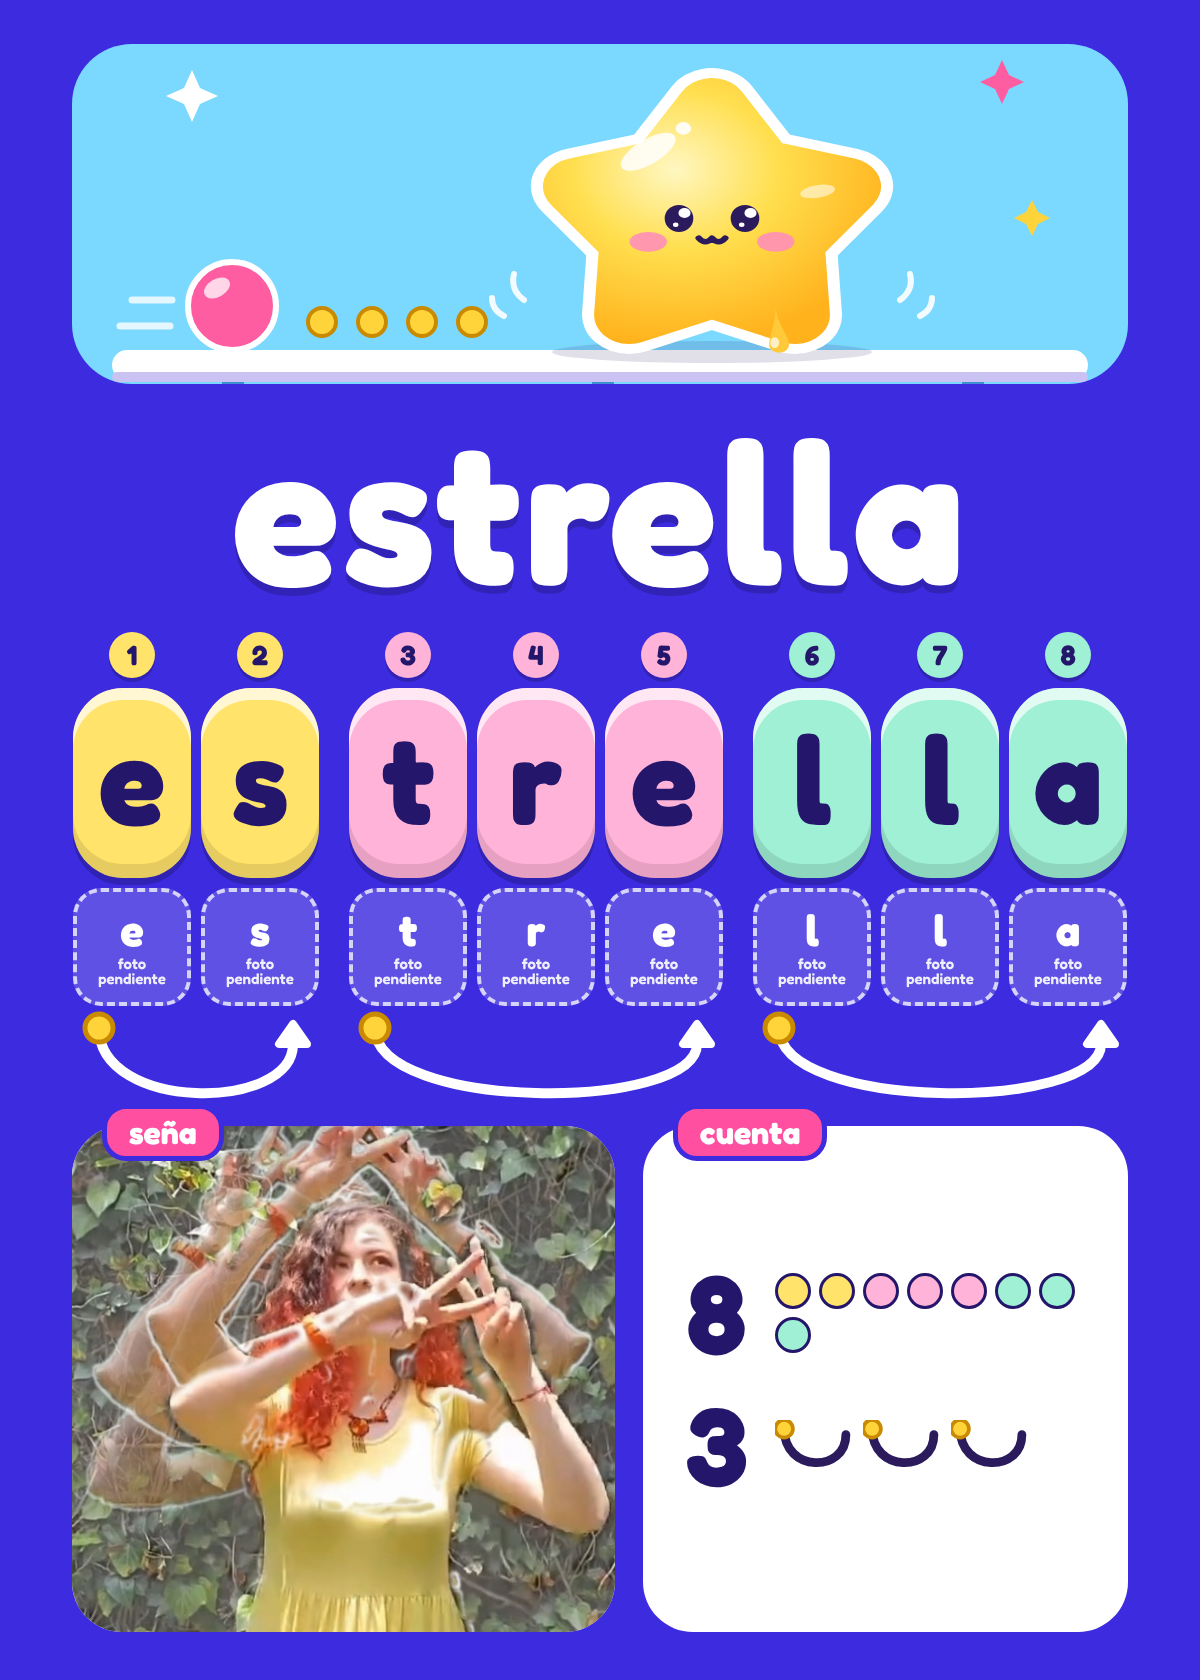
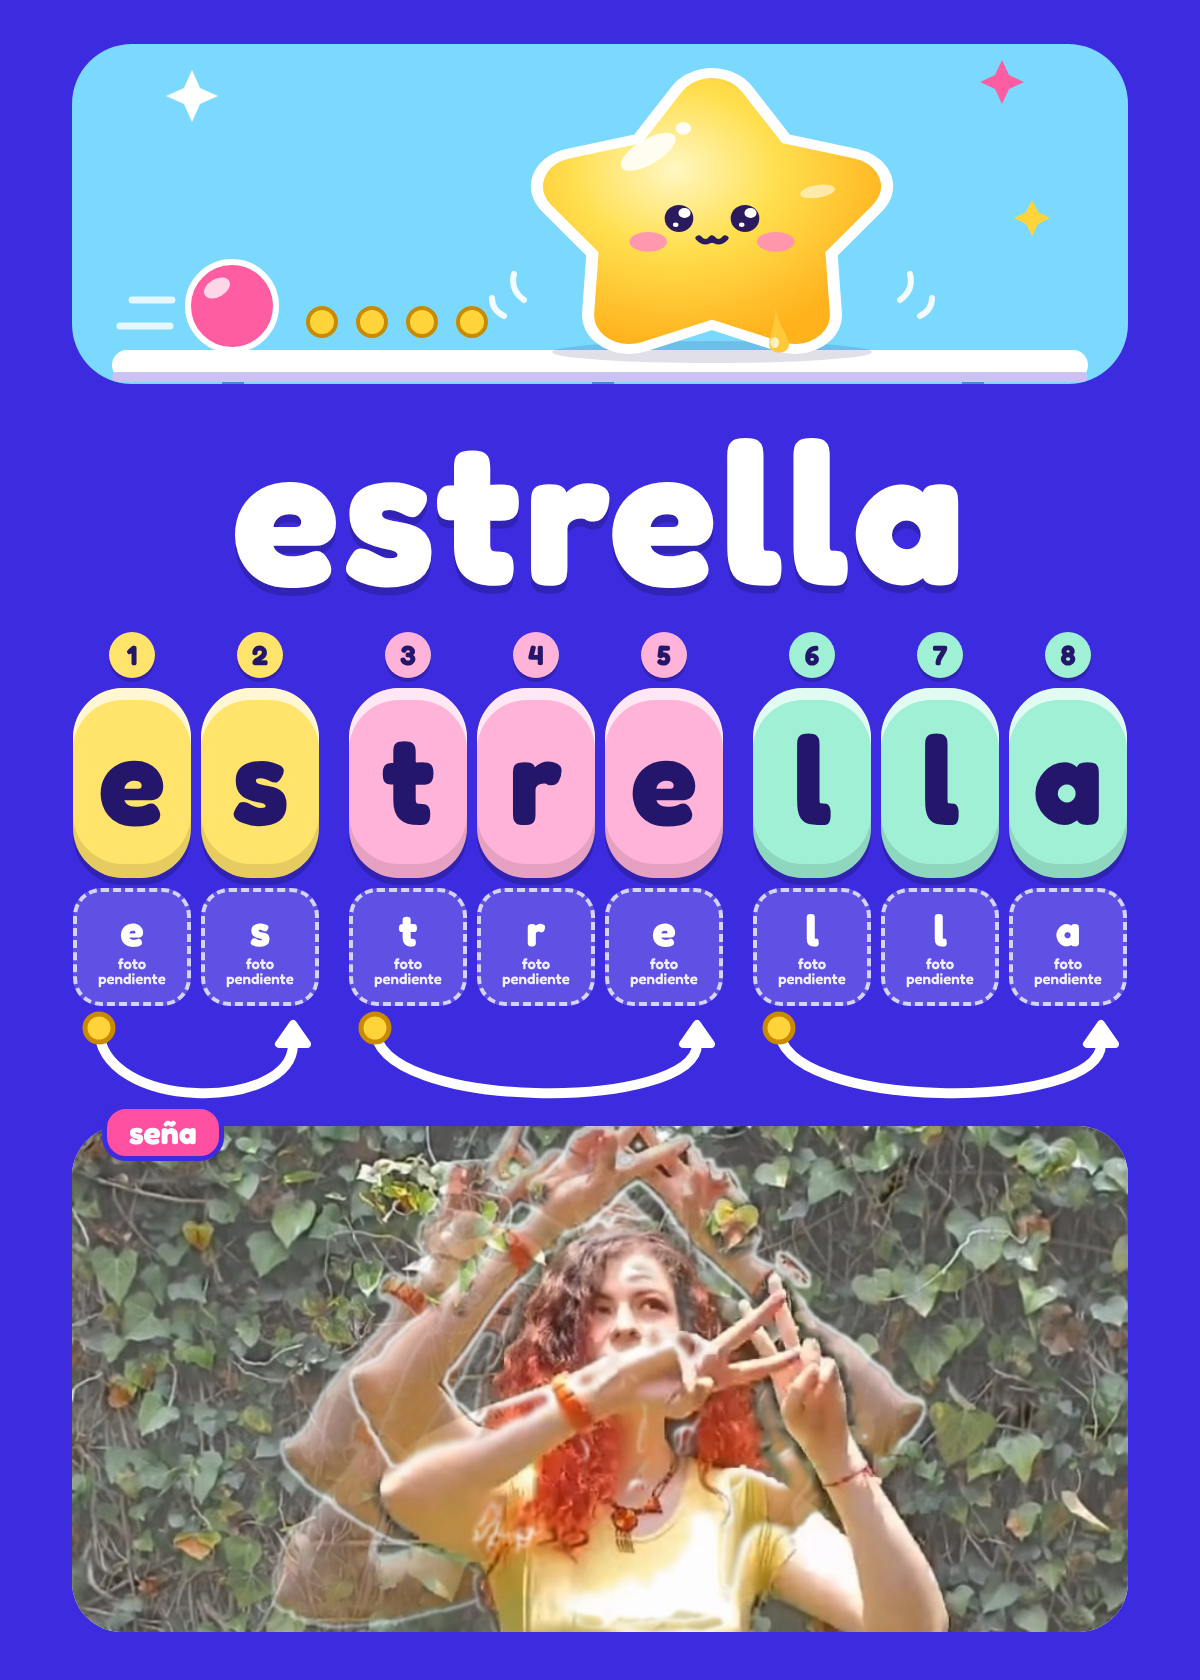
Frente sin panel de conteo; seña a todo lo ancho
Claude-Session: https://claude.ai/code/session_015Bpbc8EAm3Wz5jihEE32WP

Changed region(s): [[0.0617, 0.65, 0.9558, 0.9905]]

diff --git a/generar.js b/generar.js
@@ -107,12 +107,11 @@ function frente(t, c) {
   .arco { display:block; overflow:visible; }
   .abajo { display:flex; gap:28px; margin-top:22px; width:1056px; flex:1; }
   .panel { position:relative; background:#fff; border-radius:50px; }
-  .sena { flex:1.3; display:flex; align-items:flex-end; justify-content:center; }
+  .sena { flex:1; display:flex; align-items:flex-end; justify-content:center; }
   .foto { position:absolute; inset:0; border-radius:50px; overflow:hidden; }
-  .foto img { width:100%; height:100%; object-fit:cover; }
+  .foto img { width:100%; height:100%; object-fit:cover; object-position:center top; }
   .dibujo { max-width:94%; max-height:94%; }
   .pendiente { margin:auto; color:#bbb; font-size:44px; text-align:center; font-weight:600; }
-  .cuenta { flex:1; display:flex; flex-direction:column; justify-content:center; gap:22px; padding:0 34px; }
   .fila { display:flex; align-items:center; gap:18px; font-weight:700; font-size:40px; }
   .fila b { font-size:110px; line-height:1; min-width:80px; text-align:center; }
   .bolitas { display:flex; gap:8px; flex-wrap:wrap; }
@@ -125,10 +124,6 @@ function frente(t, c) {
     <div class="fichas">${columnas}</div>
     <div class="abajo">
       <div class="panel sena"><span class="etiqueta">seña</span>${sena}</div>
-      <div class="panel cuenta"><span class="etiqueta">cuenta</span>
-        <div class="fila"><b>${t.palabra.length}</b><div class="bolitas">${letrasConSilaba(t.silabas).map((x) => `<i style="background:${c.silabas[x.s % c.silabas.length]};border:3px solid ${c.texto}"></i>`).join('')}</div></div>
-        <div class="fila"><b>${t.silabas.length}</b>${arcosMini(t.silabas.length)}</div>
-      </div>
     </div>
   </body></html>`;
 }

diff --git a/CLAUDE.md b/CLAUDE.md
@@ -29,7 +29,7 @@ Este repositorio guarda tarjetas para que Valeria aprenda el **código escrito**
 
 `node generar.js tarjetas/<palabra>.json` crea `tarjetas/<palabra>-frente.png` y `tarjetas/<palabra>-reverso.png`.
 
-- **Frente, para aprender:** escena (squishy, en su mundo) → palabra grande → letras **numeradas en orden** (1, 2, 3…), cada una en su ficha de color por sílaba y, debajo, **su letra en dactilología LSM** → arco en "U" por sílaba → abajo, la **seña de la palabra** (foto empalmada) y el panel **"cuenta"** (cuántas letras y cuántas sílabas).
+- **Frente, para aprender:** escena (squishy, en su mundo) → palabra grande → letras **numeradas en orden** (1, 2, 3…), cada una en su ficha de color por sílaba y, debajo, **su letra en dactilología LSM** → arco en "U" por sílaba → abajo, la **seña de la palabra** (foto empalmada) a todo lo ancho.
 - **Reverso, para practicar** (siempre los mismos 4 pasos, en el mismo orden, porque su memoria y la rutina le ayudan):
   1. **traza**: la palabra punteada sobre renglones de cuaderno.
   2. **ordena**: casillas numeradas y las letras revueltas (se pueden recortar o señalar).
@@ -64,9 +64,9 @@ Este repositorio guarda tarjetas para que Valeria aprenda el **código escrito**
    - **Estilo squishy / slime para el objeto principal** (a Valeria le encantan las cosas suaves): formas gorditas con las puntas redondeadas, un poco aplastadas como si se hundieran por su peso, un degradado brillante tipo gel, brillos blancos grandes, una sombra suave debajo, alguna gotita de slime y líneas de "squish" a los lados. Carita kawaii con ojos grandes y brillantes. Ejemplo: la estrella de `escenas/estrella.svg`.
 5. **La palabra** va en minúsculas, en letra redonda (Fredoka), blanca y muy grande.
 6. **Fichas por letra, agrupadas por sílaba**, tipo squishy: redondas, con brillo arriba y sombra abajo. Cada sílaba tiene su color y hay más espacio entre sílabas. **Debajo de cada sílaba va un arco en forma de "U"** (como un puente invertido), que empieza en una monedita y termina en una flecha. Se recorre con el dedo **de izquierda a derecha** mientras se pronuncia la sílaba, para ensayar cómo suena. Separa las sílabas correctamente en español.
-7. **Orden de las letras**: cada letra lleva su número de posición y su letra en dactilología LSM debajo. El panel "cuenta" muestra cuántas letras y cuántas sílabas tiene la palabra.
-8. **Panel "seña"**: abajo a la izquierda. **No inventes la forma de una seña.** Si no hay referencia, deja `"sena"` fuera del JSON y aparece "seña pendiente".
-   - **Preferido: foto real empalmada** (así lo pidió el usuario). Pide un **video corto** de la seña y ejecuta `python3 plantilla/empalmar.py VIDEO senas/<palabra>-foto.jpg --cuadros 1,a,b,c,d --recorte x0,y0,x1,y1`. El primer cuadro (el inicio) queda **nítido**; los siguientes se enciman con **transparencia progresiva** (cada vez más transparentes) para mostrar el recorrido. Elige los cuadros revisando una hoja de contactos del video (ffmpeg). Recorta cerca de la cabeza y las manos, con una proporción de 1 a 1 aproximadamente. Las fotos llenan el panel completo.
+7. **Orden de las letras**: cada letra lleva su número de posición y su letra en dactilología LSM debajo. **No pongas paneles de conteo ni ejercicios de números**: el usuario quiere trabajar los números aparte.
+8. **Panel "seña"**: abajo, a todo lo ancho. **No inventes la forma de una seña.** Si no hay referencia, deja `"sena"` fuera del JSON y aparece "seña pendiente".
+   - **Preferido: foto real empalmada** (así lo pidió el usuario). Pide un **video corto** de la seña y ejecuta `python3 plantilla/empalmar.py VIDEO senas/<palabra>-foto.jpg --cuadros 1,a,b,c,d --recorte x0,y0,x1,y1`. El primer cuadro (el inicio) queda **nítido**; los siguientes se enciman con **transparencia progresiva** (cada vez más transparentes) para mostrar el recorrido. Elige los cuadros revisando una hoja de contactos del video (ffmpeg). Recorta horizontal (más o menos 2 de ancho por 1 de alto), dejando ver todo el recorrido de las manos. Las fotos llenan el panel completo.
    - Si solo hay fotos sueltas, empálmalas igual (el inicio nítido y las demás transparentes) o pregunta.
    - Respaldo: un dibujo SVG (`senas/<palabra>.svg`, ver `senas/estrella.svg`), con manos realistas y la persona con proporciones reales. Úsalo solo si el usuario lo pide.
    - La dirección se describe **como se ve de frente** (la "derecha" es la derecha de la imagen). Verifica siempre con el video.
